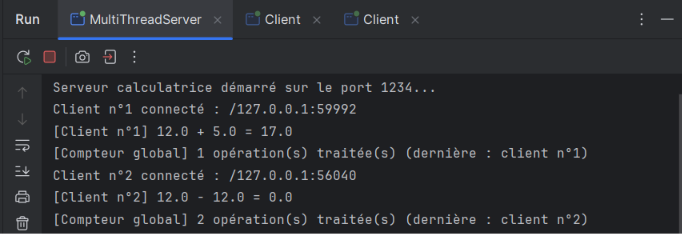
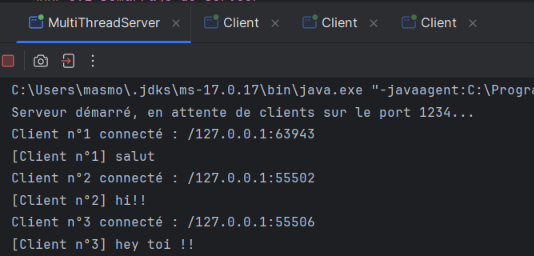
README avec captures

diff --git a/Readme.md b/Readme.md
@@ -1,0 +1,91 @@
+# TP3 : Serveur Multi-threads – Sockets TCP
+
+## Activité 3-2 : Amélioration de l'application calculatrice
+
+---
+
+## 1. Objectif
+
+- plusieurs clients connectés simultanément, chacun servi par son propre thread ;
+- communication **par objets** (`ObjectInputStream` / `ObjectOutputStream`) ;
+- un **compteur global** d'opérations, partagé et **synchronisé** (gestion de l'accès concurrent).
+
+
+## 2. Structure du projet
+
+![StructureDuProjet](images/structureduProjet.png)
+
+## 3. Principe de fonctionnement
+
+### 3.1 Communication par objets
+- `Operation` implémente `Serializable` : elle peut traverser le réseau.
+- Le client crée une `Operation(operande1, operateur, operande2)` et l'envoie avec `writeObject()`.
+- Le serveur la reçoit avec `readObject()`, la complète (`resultat` ou `erreur`) et la renvoie.
+- Le client envoie la chaîne `"bye"` pour terminer la session.
+- Points d'attention :
+    - on crée d'abord l'`ObjectOutputStream` et on fait `flush()`, puis l'`ObjectInputStream`, pour éviter un blocage mutuel client/serveur sur l'en-tête du flux ;
+    - `reset()` avant chaque `writeObject()` évite le renvoi d'une version en cache d'un objet déjà envoyé.
+
+### 3.2 Serveur multi-thread
+- `MultiThreadServer` boucle sur `accept()`, numérote chaque client, affiche son adresse IP
+  (`getRemoteSocketAddress()`), puis lance un thread `ClientProcess`.
+- Chaque `ClientProcess` gère sa propre communication indépendamment des autres.
+- Opérations gérées : `+`, `-`, `*`, `/` ; la division par zéro et les opérateurs inconnus
+  renvoient une erreur dans l'objet.
+
+### 3.3 Accès concurrent : compteur global
+- `CompteurGlobal.total` est une ressource critique partagée par tous les threads.
+- - `total++` n'est pas atomique : c'est en réalité trois étapes (lire la valeur, ajouter 1,
+    écrire le résultat). Si deux threads lisent la même valeur en même temps (par exemple 5),
+    ils écrivent tous les deux 6 au lieu de 7 : **une incrémentation est perdue**.
+
+- La méthode `static synchronized incrementer()` garantit qu'un seul thread à la fois modifie
+  le compteur. L'affichage est fait **dans** la section critique, donc les valeurs sont
+  affichées dans l'ordre (1, 2, 3, …).
+
+
+## 4. Tests en local
+
+### 4.1 Démarrage du serveur
+![Démarrage du serveur](images/01_demarrage_serveur.png)
+
+*Capture 1 : le serveur calculatrice attend les clients sur le port 1234.*
+
+### 4.2 Plusieurs clients en parallèle
+![Clients](images/02_clients_calculatrice.png)
+
+
+![Clients](images/02_clients2_calculatrice.png)
+
+*Capture 2 et 3 : plusieurs clients envoient des opérations ; chacun reçoit son numéro d'ordre et ses résultats.*
+
+### 4.3 Console du serveur et compteur global
+![Console serveur](images/03_console_serveur_compteur.png)
+
+*Capture 4 : le serveur affiche chaque opération et la nouvelle valeur du compteur global.*
+
+## 5. Autre Test
+
+![Console serveur](images/Compteurglobal.png)
+Avec 3 clients connectés simultanément qui envoient chacun plusieurs opérations,
+le compteur global s'incrémente dans l'ordre (1, 2, 3, …) sans doublon ni valeur manquante,
+quel que soit le client qui envoie l'opération. La méthode `synchronized` garantit donc
+la cohérence du compteur.
+
+## 6. Synthèse
+
+- **Multi-thread :** le thread principal ne fait que `accept()`. Chaque client a son thread
+  `ClientProcess` : les clients ne se bloquent plus entre eux.
+- **Objets :** échanger un objet `Operation` est plus structuré que du texte : pas de parsing côté
+  serveur, le résultat et l'erreur voyagent dans le même objet.
+- **Concurrence :** le compteur global est une ressource critique. `synchronized` garantit
+  l'exclusion mutuelle : le test avec 3 clients simultanés donne un compteur exact et cohérent.
+- **Limites et améliorations :** un thread par client ne passe pas à grande échelle (pool de
+  threads `ExecutorService`) ; pour un simple compteur, `AtomicInteger` serait une alternative
+  sans verrou.
+
+## 7. Conclusion
+
+Ce TP a permis d'étendre le service de calculatrice en serveur multi-thread à communication par
+objets, avec une gestion correcte de l'accès concurrent à une ressource partagée.
+
